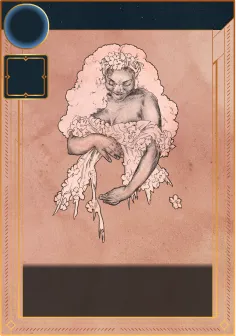
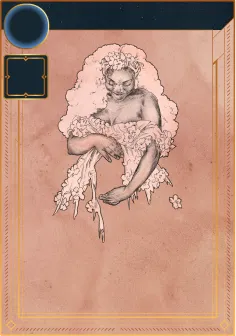
Fixed some off card images, removed unused ones

Changed region(s): [[0.089, 0.7738, 0.9195, 0.9524]]

diff --git a/client/src/loader/assetLists.ts b/client/src/loader/assetLists.ts
@@ -48,6 +48,7 @@ export const assetLists = {
       "Abundance",
       "Ancestry",
       "Arsonist",
+      "Arsonist",
       "Ashes",
       "Awakening",
       "Balance",
@@ -66,7 +67,6 @@ export const assetLists = {
       "Conquer",
       "Cosmos",
       "Cradle",
-      "Craving",
       "Dagger",
       "Dam Breaks",
       "Dash",
@@ -128,7 +128,6 @@ export const assetLists = {
       "Pomegranate",
       "Possibility",
       "Posterity",
-      "Precious",
       "Predator",
       "Pregnant",
       "Prey",
@@ -145,7 +144,6 @@ export const assetLists = {
       "Sensualist",
       "Shadow",
       "Sickness",
-      "Silence",
       "Spark",
       "Starling",
       "Stars",
@@ -162,7 +160,6 @@ export const assetLists = {
       "Victim",
       "Vulture",
       "Wing Clipping",
-      "Wound",
       "Yearn"
     ],
     "pixelArt": true
